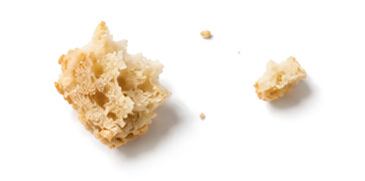
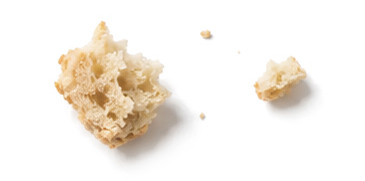
pan2

diff --git a/app/components/sections/About.tsx b/app/components/sections/About.tsx
@@ -28,8 +28,12 @@ export default async function About({ locale }: { locale: Locale }) {
     })),
   ];
 
+  // Half the usual floor: this section ends with a quote and an ornament
+  // rather than with something to read, so its bottom padding met the next
+  // section's and left a hole. `pb` is emitted after `py` in Tailwind's order,
+  // which is what lets it override the spacing preset.
   return (
-    <Section id="about" spacing="lg">
+    <Section id="about" spacing="lg" className="pb-10 md:pb-14">
       <Container>
         <div className="grid items-center gap-16 md:grid-cols-2 md:gap-24">
           <div className="relative aspect-[2/3] w-full overflow-hidden rounded-2xl">
@@ -83,7 +87,7 @@ export default async function About({ locale }: { locale: Locale }) {
               so it is exactly as tall as the picture, with no invisible slack
               to compensate for.
             */}
-            <div className="relative hidden aspect-[365/181] w-72 md:block">
+            <div className="relative hidden aspect-[365/181] w-[14.4rem] md:block">
               <Image
                 src="/photo/pan1.jpg"
                 alt=""
